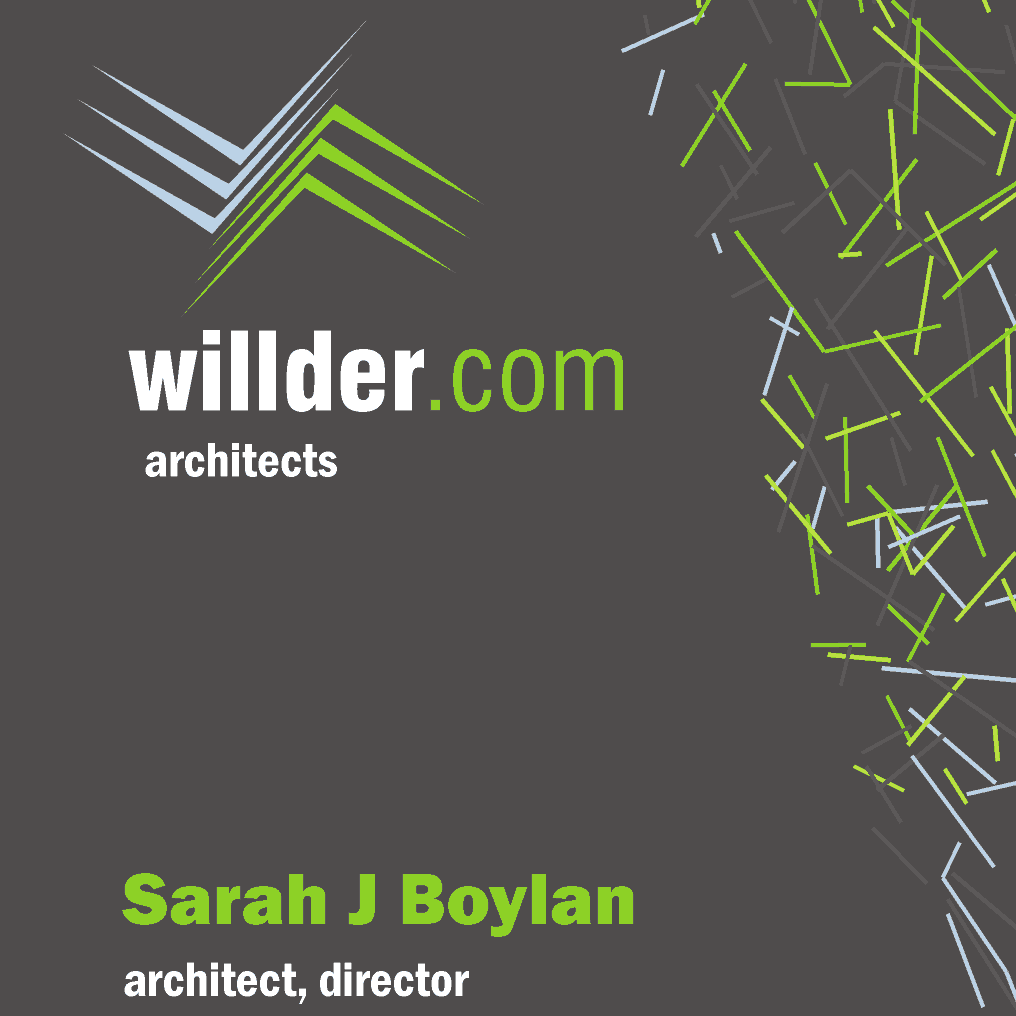
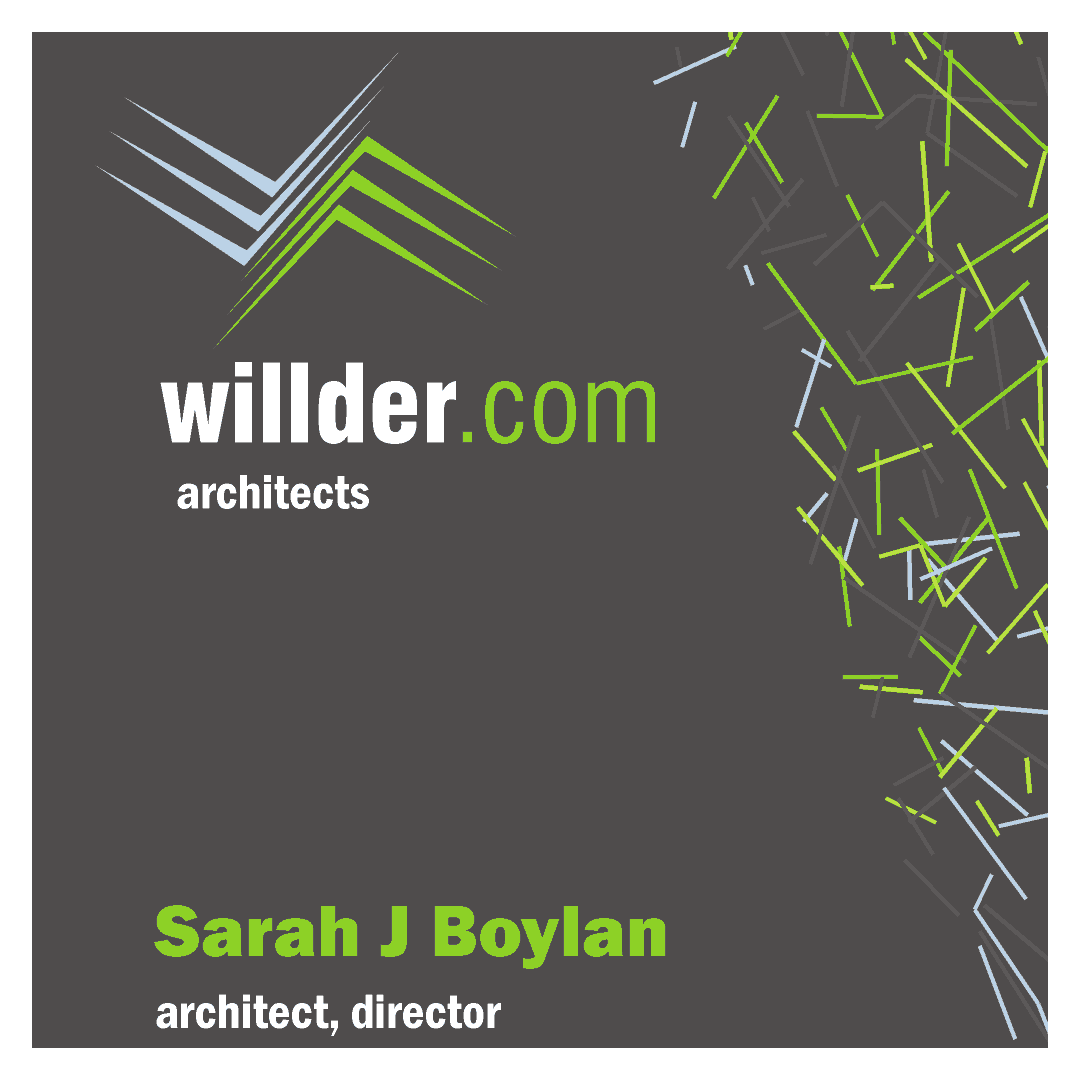
Added border to sarah.png
and changed bit depth of sarah.png

Changed region(s): [[0.0, 0.0, 1.0, 1.0], [0.0915, 0.061, 0.6102, 0.4882], [0.6713, 0.061, 0.7323, 0.1526]]

diff --git a/index.html b/index.html
@@ -20,8 +20,8 @@
   <meta property="og:type" content="website">
   <meta property="og:url" content="https://willder.com/">
   <meta property="og:image" content="https://willder.com/sarah.png">
-  <meta property="og:image:width" content="1015">
-  <meta property="og:image:height" content="1015"> <!-- Facebook prefers 1200×630 images (a 1.91:1 ratio) -->
+  <meta property="og:image:width" content="1080">
+  <meta property="og:image:height" content="1080"> <!-- Facebook prefers 1200×630 images (a 1.91:1 ratio) -->
   <meta name="twitter:card" content="summary_large_image">
 	<meta name="twitter:site" content="@gnq">
 	<meta name="twitter:title" content="willder.com - Consulting Architects">
